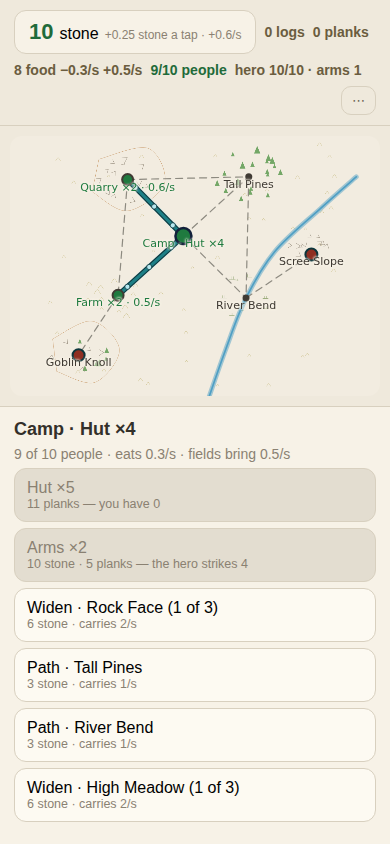
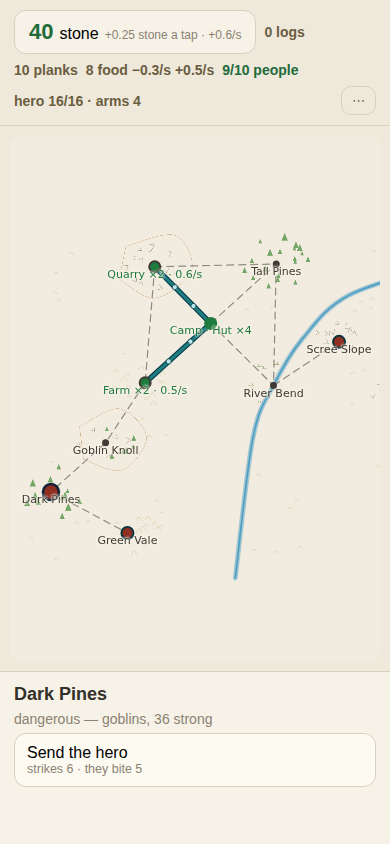
THE SECOND REGION: the map grows outward, and the hero grows into it
Behind the knoll and the scree, three new grounds - Dark Pines (lumber,
36 strong, bites 5), High Quarry (48, bites 5), Green Vale (farm, 60,
bites 6) - each hidden behind a `behind:` prerequisite until the ground
in front of it falls. The knoll fight now buys two reveals; the scree
buys one. The far country's LAND is painted from frame one (trees you
can see over ground you cannot reach), so the mystery costs nothing.

EVERY LIBERATION TOUGHENS THE HERO: +3 max health per ground freed,
derived from the goblin record and never stored. Arms buy the strike;
the fights already won buy the surviving - Dark Pines at hp 19 with
Arms x7 is four rounds and home at 4 health, the exact sim the
strengths were priced against (it is a test now).

Save v5; v4 refused to a fresh start - saves reset, said plainly.

EVIDENCE, run and read:
- vitest 722 green (4 new: the reveal gating, the knoll's two-site
  prize, the toughening + heal-to-grown-max, the deep-country win sim)
- npm run play exit 0, new FRONTIER phase: 9 sites with the knoll
  fallen, "dangerous - goblins, 36 strong" on Dark Pines, hero 16/16
  in the header after two liberations
- PROVEN RED, restored: reveal gating removed -> 2 red; toughening
  removed -> 1 red
- play-city.png looked at: the frontier open, two red holdings deep,
  the High Quarry still hidden behind the scree

Claude-Session: https://claude.ai/code/session_01QmyFfz98V4SRquKDwCYRQg

diff --git a/src/camp/engine.ts b/src/camp/engine.ts
@@ -30,6 +30,9 @@ export interface Site {
   allows: Kind;
   /** Which sites a path can join this one to. */
   near: number[];
+  /** ★ THE MAP GROWS OUTWARD: this ground shows only once the named site
+   *  is liberated. The far country is the knoll fight's real prize. */
+  behind?: number;
 }
 
 /** ★ THE WILDERNESS. Hand-placed; the board draws exactly these. Beyond
@@ -42,6 +45,12 @@ export const SITES: readonly Site[] = [
   { id: 4, name: 'High Meadow', x: 104, y: 292, allows: 'farm', near: [0, 1, 6] },
   { id: 5, name: 'Scree Slope', x: 388, y: 232, allows: 'quarry', near: [3] },
   { id: 6, name: 'Goblin Knoll', x: 46, y: 380, allows: 'quarry', near: [4] },
+  // ★★ THE SECOND REGION, 2026-08-08 — behind the knoll and the scree,
+  // stronger holdings, longer hauls, and the farmland the growing town
+  // will need. Hidden until the ground in front of it falls.
+  { id: 7, name: 'Dark Pines', x: -34, y: 452, allows: 'lumber', near: [6], behind: 6 },
+  { id: 8, name: 'High Quarry', x: 474, y: 306, allows: 'quarry', near: [5], behind: 5 },
+  { id: 9, name: 'Green Vale', x: 78, y: 512, allows: 'farm', near: [7], behind: 6 },
 ];
 
 /** ★★ THE GOBLINS, stolen from Mayor of Noobtown on the owner's order:
@@ -52,6 +61,9 @@ export const GOBLINS: Record<number, { strength: number; bite: number }> = {
   4: { strength: 12, bite: 2 },
   5: { strength: 18, bite: 3 },
   6: { strength: 30, bite: 4 },
+  7: { strength: 36, bite: 5 },
+  8: { strength: 48, bite: 5 },
+  9: { strength: 60, bite: 6 },
 };
 export const SITE = new Map(SITES.map((s) => [s.id, s]));
 
@@ -98,7 +110,7 @@ export interface City {
   fight: { site: number } | null;
 }
 
-export const CITY_VERSION = 4;
+export const CITY_VERSION = 5;
 
 export const initial = (): City => ({
   version: CITY_VERSION,
@@ -118,9 +130,14 @@ export const initial = (): City => ({
   fight: null,
 });
 
-/** The hero's full health, and the pace of getting it back. */
+/** The hero's base health, and the pace of getting it back. */
 export const HERO_HP = 10;
 export const HEAL_SECS = 15;
+/** ★ EVERY LIBERATION TOUGHENS THE HERO: +3 health per ground freed.
+ *  The deep country's bites (5s and 6s) are priced against this — arms
+ *  buy the strike, the fights already won buy the surviving. */
+export const heroMax = (g: City): number =>
+  HERO_HP + 3 * (Object.keys(GOBLINS).length - Object.keys(g.goblins).length);
 /** What one strike lands: bare hands plus the armoury. */
 export const heroHit = (g: City): number => 2 + g.hero.arms;
 /** Arms price in BOTH currencies, on a steeper curve — the late fights
@@ -195,9 +212,11 @@ export const shortOf = (g: City, p: Price): string | null => {
 /** Widening: the next gauge costs the path price over again, times gauge. */
 export const pathCostOf = (gauge: number): number => PATH_COST * (gauge + 1);
 
-/** The whole wilderness shows from the first frame — held ground drawn
- *  red IS the carrot. Liberation, not population, grows the town's reach. */
-export const shown = (_g: City): Site[] => [...SITES];
+/** What the map shows: the first valley whole (held ground drawn red IS
+ *  the carrot), and the far country only once the ground in front of it
+ *  falls — the map grows outward, fight by fight. */
+export const shown = (g: City): Site[] =>
+  SITES.filter((s) => s.behind === undefined || !(s.behind in g.goblins));
 
 export const popCap = (g: City): number => 2 + (g.stacks[0] ?? 0) * HUT_ROOM;
 
@@ -465,7 +484,7 @@ export function unlayable(g: City, a: number, b: number): string | null {
 export function unassailable(g: City, id: number): string | null {
   if (!g.goblins[id]) return 'nothing to fight here';
   if (g.fight) return 'the hero is already fighting';
-  if (g.hero.hp < HERO_HP) return `the hero heals — ${g.hero.hp} of ${HERO_HP}`;
+  if (g.hero.hp < heroMax(g)) return `the hero heals — ${g.hero.hp} of ${heroMax(g)}`;
   return null;
 }
 
@@ -516,13 +535,15 @@ export function apply(g: City, a: Action): City {
       } else {
         popPart = 0;
       }
-      // The hero heals at home — never mid-fight.
+      // The hero heals at home — never mid-fight — toward the max the
+      // fights already won have earned.
       let hero = g.hero;
-      if (!g.fight && hero.hp < HERO_HP) {
+      const hpMax = heroMax(g);
+      if (!g.fight && hero.hp < hpMax) {
         const part = hero.part + s / HEAL_SECS;
         const up = Math.floor(part);
-        hero = { ...hero, hp: Math.min(HERO_HP, hero.hp + up), part: part - up };
-      } else if (hero.part !== 0 && hero.hp >= HERO_HP) {
+        hero = { ...hero, hp: Math.min(hpMax, hero.hp + up), part: part - up };
+      } else if (hero.part !== 0 && hero.hp >= hpMax) {
         hero = { ...hero, part: 0 };
       }
       return {

diff --git a/test/campbuilder.test.ts b/test/campbuilder.test.ts
@@ -4,7 +4,7 @@
 //
 // ---- PROVEN RED, 2026-08-08 (sabotage log in the commit message) -----------
 import { describe, it, expect } from 'vitest';
-import { apply, initial, flow, shown, popCap, pathKey, costOf, pathCostOf,
+import { apply, initial, flow, shown, popCap, pathKey, costOf, pathCostOf, heroMax,
   unlayable, unraisable, unassailable, component, heroHit, armsCost, hunger,
   TAP_STONE, RATE, BASE, HUT_ROOM, GROW_SECS, CARRY, SITES, GOBLINS,
   HERO_HP, HEAL_SECS, WILD_FED, EAT, CAPTIVES, type City } from '../src/camp/engine';
@@ -102,9 +102,42 @@ describe('★★ RULE 2 — people are the multiplier, and the ladder', () => {
     expect(unraisable({ ...initial(), planks: 99 }, 0)).toBeNull();
   });
 
-  it('★ the whole wilderness shows from the first frame — held ground is the carrot', () => {
-    expect(shown(initial()).length).toBe(SITES.length);
-    expect(initial().goblins).toEqual({ 4: 12, 5: 18, 6: 30 });
+  it('★ the first valley shows whole; the far country waits behind its holdings', () => {
+    expect(shown(initial()).length).toBe(7);
+    expect(initial().goblins).toEqual({ 4: 12, 5: 18, 6: 30, 7: 36, 8: 48, 9: 60 });
+  });
+
+  it('★★ liberating the knoll GROWS THE MAP — the fight\'s real prize', () => {
+    const { 6: _, ...rest } = initial().goblins;
+    const g: City = { ...initial(), goblins: rest };
+    const ids = shown(g).map((s) => s.id);
+    expect(ids).toContain(7);   // Dark Pines steps out of the mist
+    expect(ids).toContain(9);   // and the Green Vale behind them
+    expect(ids).not.toContain(8);   // the scree still hides the High Quarry
+  });
+
+  it('★ every liberation toughens the hero: +3 health per ground freed', () => {
+    expect(heroMax(initial())).toBe(HERO_HP);
+    const { 4: _a, 5: _b, ...rest } = initial().goblins;
+    const g: City = { ...initial(), goblins: rest };
+    expect(heroMax(g)).toBe(HERO_HP + 6);
+    // And the heal fills to the GROWN max.
+    const hurt: City = { ...g, hero: { hp: 0, arms: 0, part: 0 } };
+    expect(tick(hurt, HEAL_SECS * 40).hero.hp).toBe(HERO_HP + 6);
+  });
+
+  it('★ the deep country is winnable by the armed and the toughened', () => {
+    // Dark Pines (36 strong, bites 5) with all three first-valley fights
+    // won (hp 19) and Arms ×7 (strikes 9): four rounds, three bites, home
+    // at 4 health. The sim the strengths were priced against.
+    const start = { ...initial().goblins };
+    delete start[4]; delete start[5]; delete start[6];
+    let g: City = { ...initial(), goblins: start,
+      hero: { hp: 19, arms: 7, part: 0 } };
+    g = apply(g, { type: 'assail', id: 7 });
+    for (let i = 0; i < 4 && g.fight; i++) g = apply(g, { type: 'strike' });
+    expect(g.goblins[7]).toBeUndefined();
+    expect(g.hero.hp).toBe(4);
   });
 });
 
@@ -306,7 +339,7 @@ describe('★ honest refusals and the save', () => {
     expect(back).not.toBeNull();
     expect(back!.game).toEqual(g);
     expect(honour(null)).toBeNull();
-    expect(honour({ game: { version: 3 }, savedAt: 1 })).toBeNull();
+    expect(honour({ game: { version: 4 }, savedAt: 1 })).toBeNull();
     expect(honour({ game: { ...initial(), pop: -1 }, savedAt: 1 })).toBeNull();
     expect(honour({ game: { ...initial(), hero: { hp: -1, arms: 0, part: 0 } },
       savedAt: 1 })).toBeNull();

diff --git a/src/ui/Camp.svelte b/src/ui/Camp.svelte
@@ -7,7 +7,7 @@
   import type { Box } from '../game/layout';
   import { apply, initial, flow, shown, popCap, pathKey, costOf, pathCostOf,
     priceLine, unlayable, unraisable, unassailable, heroHit, armsCost, hunger,
-    SITE, GOBLINS, RATE, TAP_STONE, MAX_GAUGE, HERO_HP, type City } from '../camp/engine';
+    heroMax, SITE, GOBLINS, RATE, TAP_STONE, MAX_GAUGE, type City } from '../camp/engine';
   import { load, save, wipe, exportRaw, importRaw, elapsedSince } from '../camp/store';
   import { CAMP_SHAPES } from '../camp/scenery';
 
@@ -273,7 +273,7 @@
       f.starving ? ' · STARVING' : hunger(game) > 0 ? ` −${hunger(game).toFixed(1)}/s` : ''}{
       f.food > 0 ? ` +${f.food.toFixed(1)}/s` : ''}</span>
     <span class="keep lv">{Math.floor(game.pop)}/{cap} people</span>
-    <span class="keep">hero {game.hero.hp}/{HERO_HP} · arms {game.hero.arms}</span>
+    <span class="keep">hero {game.hero.hp}/{heroMax(game)} · arms {game.hero.arms}</span>
     <button class="reset gear" onclick={() => (menu = !menu)}>{menu ? 'Close' : '⋯'}</button>
     {#if menu}
       <button class="reset" class:armed={wiping}
@@ -302,7 +302,7 @@
       {#if game.fight}
         {@const at = game.fight.site}
         <h2>Goblins · {game.goblins[at] ?? 0}</h2>
-        <p class="note">hero {game.hero.hp}/{HERO_HP} · strikes {heroHit(game)} · they bite {GOBLINS[at]?.bite ?? 2}</p>
+        <p class="note">hero {game.hero.hp}/{heroMax(game)} · strikes {heroHit(game)} · they bite {GOBLINS[at]?.bite ?? 2}</p>
         <button class="deed face" onclick={() => act({ type: 'strike' })}>
           Strike
           <em>{game.goblins[at]} − {heroHit(game)}</em>

diff --git a/src/camp/scenery.ts b/src/camp/scenery.ts
@@ -45,6 +45,9 @@ const CLUSTERS: Array<{ at: number; g: Mark['g']; n: number; r: number }> = [
   { at: 5, g: 'crag', n: 11, r: 28 },   // Scree Slope
   { at: 6, g: 'wood', n: 8, r: 30 },    // Goblin Knoll's dark trees…
   { at: 6, g: 'crag', n: 7, r: 26 },    // …over broken ground
+  { at: 7, g: 'wood', n: 16, r: 34 },   // Dark Pines, thick
+  { at: 8, g: 'crag', n: 12, r: 30 },   // High Quarry
+  { at: 9, g: 'moor', n: 14, r: 34 },   // Green Vale
 ];
 
 /** ★ THE RIVER, through River Bend — the site was named for it before it

diff --git a/docs/DECISIONS.md b/docs/DECISIONS.md
@@ -1840,3 +1840,4 @@ Entries above this line are long because the one-line rule did not exist yet.
 - 2026-08-08 — **THE LOOK PASS** (playtest points: background, carriers, pops). src/camp/scenery.ts paints the valley from the OLD map's own exported glyphs (markShapes — the parts shelf working as decreed): tree scatter at the pines, crag ticks at the rock faces, rushes by the bend, a live river through River Bend, two hand-laid height rings. CARRIER DOTS haul along carrying paths (Line.carry) instead of the mana dash — the dash branch stays in Board untouched, per the owner's keep-the-code instruction. +1 pops anchor to the camp when there is no pin (one a second, cleared on pan — old rules). The probe now counts trees and river off the live palette AND asserts the carriers' centre of mass MOVES across 700ms — a buried crawl once stayed green for weeks because nothing checked motion.
 - 2026-08-08 — **MESH ROUTING** (playtest point: "there should be a reason to connect stuff to each other as opposed to just center"). flow() runs two stages: raw goods route by multi-root BFS — LOGS to the nearest mill, stone/food to the camp — then planks route mill→camp over whatever room the raw goods left. All flows share every path's capacity; over cap scales everyone on the edge and the rest is waste, chokes drawn as before. THE PAYOFF IS PROVEN IN A TEST: identical buildings, star wiring ships 0 planks (the logs saturate the mill's own road home), mesh wiring ships full rate. Sawing is not limited by shipping — a choked plank road WASTES sawn planks, never mints them (tick banks only the shipped ratio). A starved mill explains itself: "logs in 0.4/s of 1.0/s — wire the pines closer."
 - 2026-08-08 — **POSTED HANDS** (playtest point: "you should be able to assign people to a building"). Pins per site (crew record, additive to the v4 save): a posted hand is filled FIRST and wins the pool — even over farms-first, because an explicit call is the player's (the STARVING law still stands over everything: a pinned quarry in a famine works zero and shows it). Everyone unpinned auto-staffs exactly as before, so the default remains zero babysitting (the HITL rule holds). Panel row: "− hands 1.0 of 1 · 1 posted +". The second half of the owner's ask — buildings holding MORE than one worker each, so people rather than building counts carry growth — is queued for the pacing pass, where the per-worker rates get retuned with chad-liquidity rather than eyeballed.
+- 2026-08-08 — **THE SECOND REGION.** Three new grounds past the first valley — Dark Pines (lumber, 36/bite 5), High Quarry (48/5), Green Vale (farm, 60/6) — each hidden behind a `behind:` prerequisite (the knoll reveals two, the scree one): THE MAP GROWS OUTWARD, fight by fight, and the reveal is the fight's real prize. EVERY LIBERATION TOUGHENS THE HERO: +3 max health per ground freed (derived, never stored) — arms buy the strike, fights already won buy the surviving; the deep bites (5s, 6s) are priced against exactly that ladder, sim in the test. The far country's land is PAINTED from frame one (trees you can see, ground you cannot reach) — the mystery is free. Save v5.

diff --git a/docs/NEXT.md b/docs/NEXT.md
@@ -1077,11 +1077,14 @@ over what is left, and a star ships 0 where a mesh ships full rate
 **Shipped since:** POSTED HANDS — pin people to a works (− hands +), pins
 win the pool, auto stays the default.
 
+**Shipped since:** THE SECOND REGION — three grounds behind the knoll and
+the scree, revealed by liberation; the hero toughens +3 health per ground
+freed, and the deep bites are priced against that ladder.
+
 **Next, one per session:**
-1. Second region past the knoll — deeper goblins, the map growing.
-2. THE PACING PASS with chad-liquidity: per-worker rates and multi-hand
+1. THE PACING PASS with chad-liquidity: per-worker rates and multi-hand
    buildings (the second half of the assign ask), the away line, curves.
-3. Naming/prose pass — the owner's, only when the loop proves out.
+2. Naming/prose pass — the owner's, only when the loop proves out.
 
 ## ★★★★ (superseded same night) THE CAMP BUILDER — slice 1 of the pivot
 
